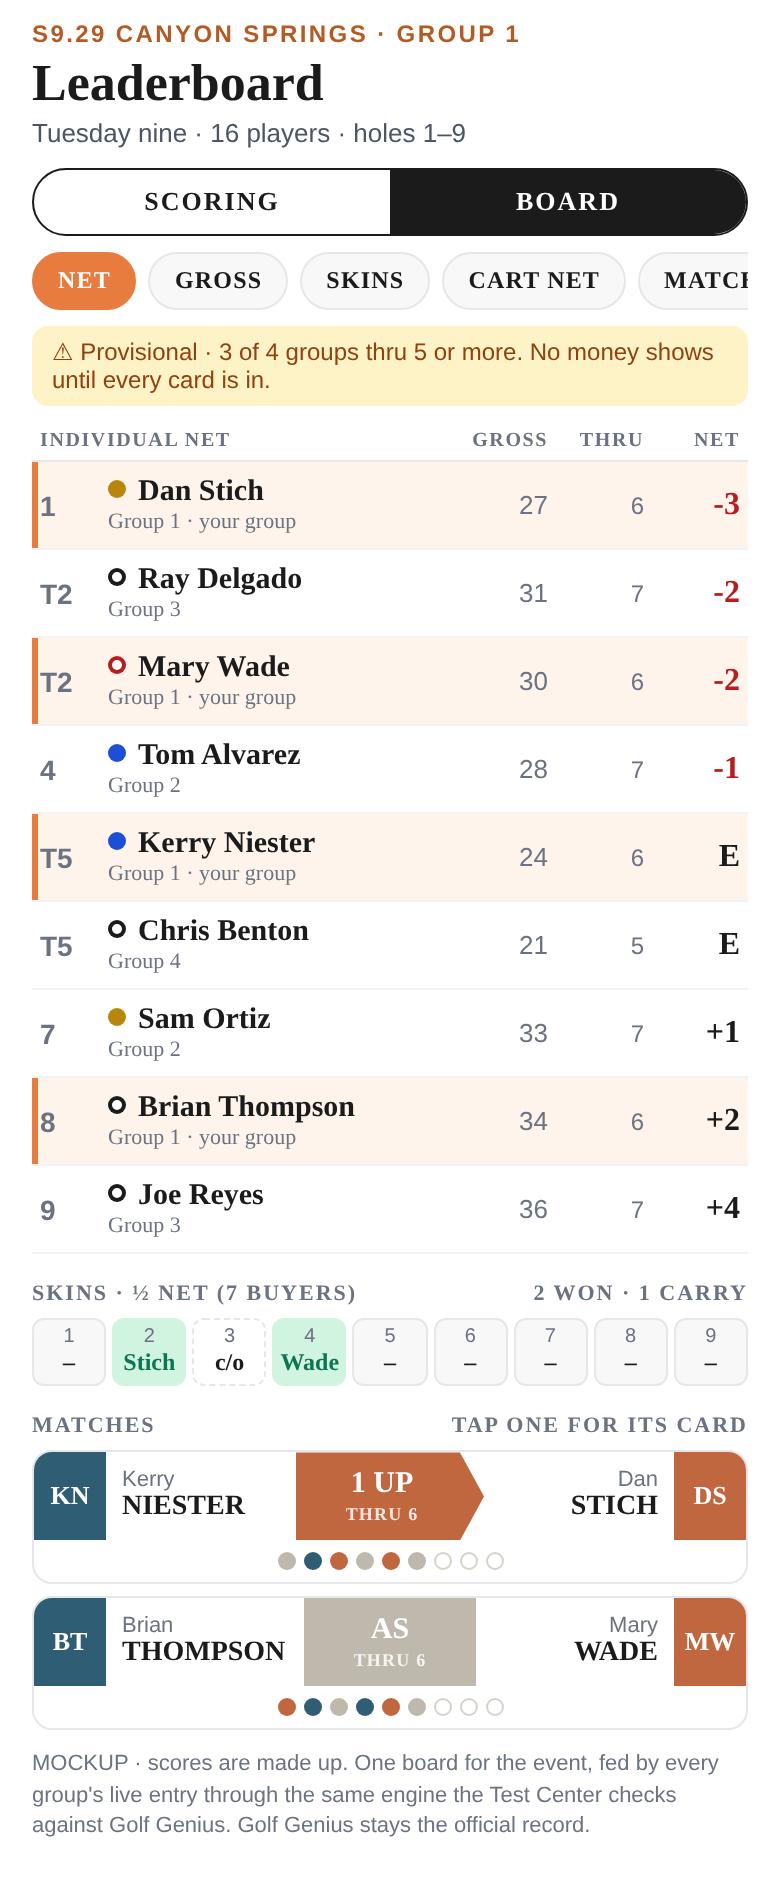
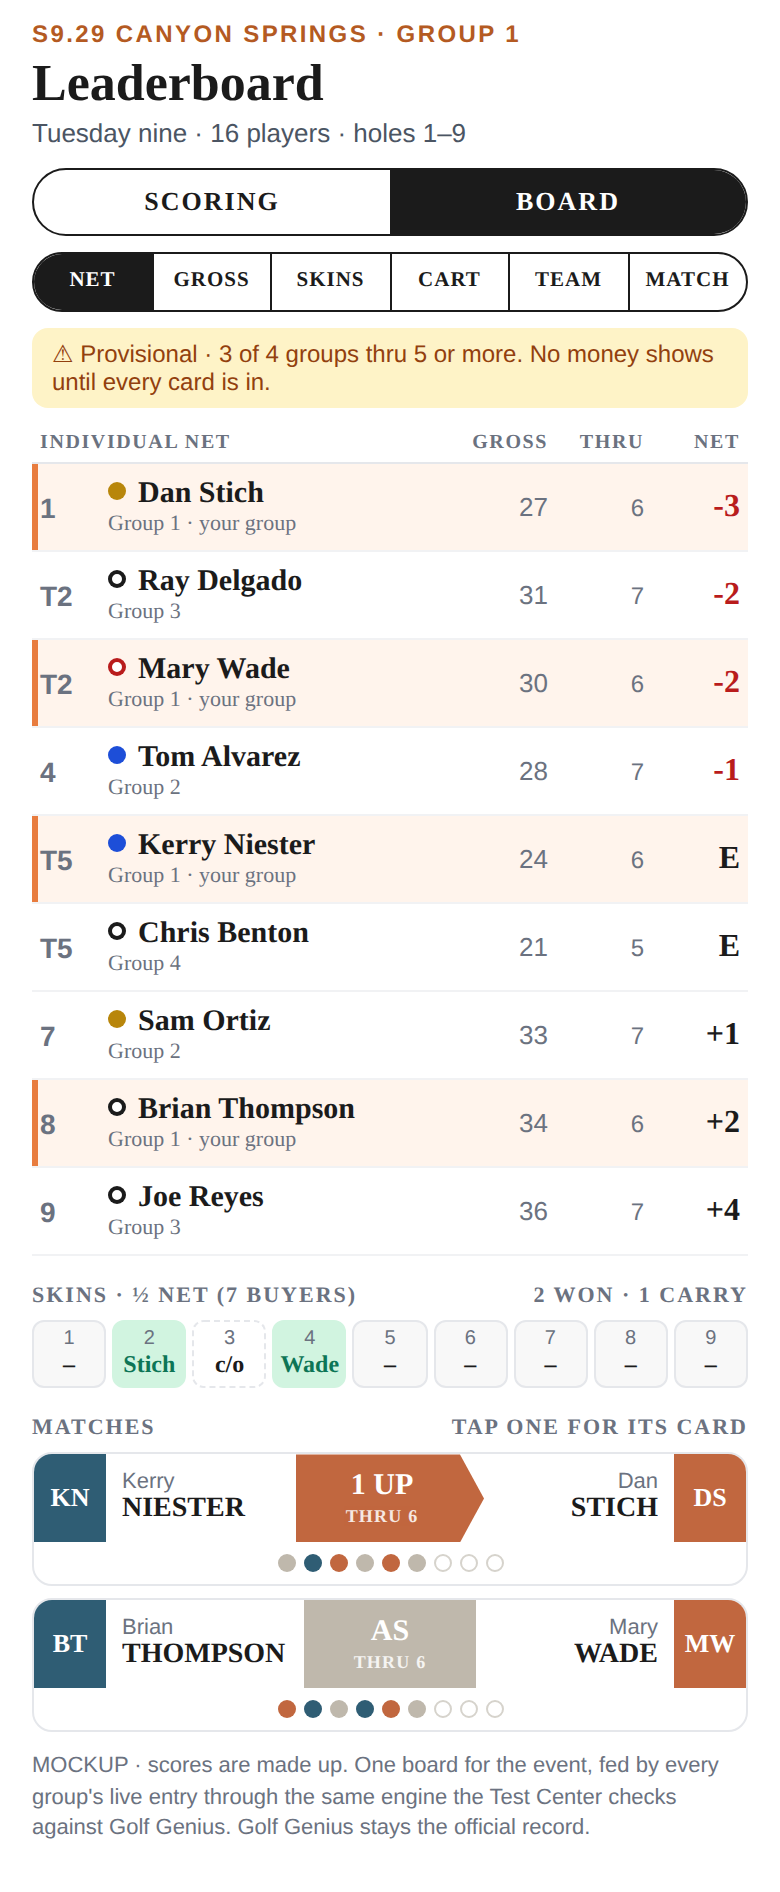
Leaderboard mockups: games as one toggle, Team Net added
Claude-Session: https://claude.ai/code/session_01PeGTnLppc6bpJPrSmUWsVP

diff --git a/transaction-tracker/docs/claude/mockups/leaderboard-board.html b/transaction-tracker/docs/claude/mockups/leaderboard-board.html
@@ -8,9 +8,10 @@ h1{font:700 26px/1.1 Bitter,Georgia,serif;margin:2px 0 0}
 .mode{display:flex;border:1px solid #1B1B1B;border-radius:24px;overflow:hidden;margin:10px 0 8px}
 .mode b{flex:1;text-align:center;font:700 13px/32px 'Helvetica Neue';letter-spacing:1px}
 .mode b.on{background:#1B1B1B;color:#fff}
-.chips{display:flex;gap:6px;margin:6px 0 8px;overflow-x:auto}
-.chip{flex:none;padding:6px 12px;border-radius:999px;border:1px solid #E5E7EB;font:700 12px 'Helvetica Neue';letter-spacing:.6px;background:#F8F8F8}
-.chip.on{background:#E87C3E;border-color:#E87C3E;color:#fff}
+.chips{display:flex;border:1px solid #1B1B1B;border-radius:24px;overflow:hidden;margin:0 0 8px}
+.chip{flex:1;text-align:center;font:700 10.5px/28px 'Helvetica Neue';letter-spacing:.5px;border-left:1px solid #1B1B1B;white-space:nowrap}
+.chip:first-child{border-left:none}
+.chip.on{background:#1B1B1B;color:#fff}
 .prov{display:flex;align-items:center;gap:6px;font-size:12px;color:#92400E;background:#FEF3C7;border-radius:8px;padding:6px 10px;margin-bottom:8px}
 table{width:100%;border-collapse:collapse;font-variant-numeric:tabular-nums}
 th{font:700 10px 'Helvetica Neue';letter-spacing:.8px;color:#6B7280;text-transform:uppercase;text-align:right;padding:4px 4px;border-bottom:1px solid #E5E7EB}
